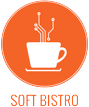
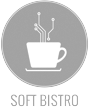
images fix

diff --git a/src/partials/desktop-content.html b/src/partials/desktop-content.html
@@ -162,42 +162,63 @@
                 <div class="friends__slide">
                     <div>
                         <a href="#">
-                            <img src="../images/friend-1.png" alt="">
+                            <span>
+                               <img src="../images/friend-1.png" alt="">
+                                <img src="../images/friend-1-color.png" alt="">
+                            </span>
+
                         </a>
                     </div>
                 </div>
                 <div class="friends__slide">
                     <div>
                         <a href="#">
-                            <img src="../images/friend-2.png" alt="">
+                            <span>
+                                <img src="../images/friend-2.png" alt="">
+                             <img src="../images/friend-2-color.png" alt="">
+                            </span>
+
                         </a>
                     </div>
                 </div>
                 <div class="friends__slide">
                     <div>
                         <a href="#">
-                            <img src="../images/friend-3.png" alt="">
+                            <span>
+                                <img src="../images/friend-3.png" alt="">
+                                <img src="../images/friend-3-color.png" alt="">
+                            </span>
+
                         </a>
                     </div>
                 </div>
                 <div class="friends__slide">
                     <div>
                         <a href="#">
-                            <img src="../images/friend-2.png" alt="">
+                            <span>
+                                <img src="../images/friend-2.png" alt="">
+                                <img src="../images/friend-2-color.png" alt="">
+                            </span>
                         </a>
                     </div>
                 </div>
                 <div class="friends__slide">
                     <div>
                         <a href="#">
-                            <img src="../images/friend-3.png" alt="">
+                            <span>
+                                <img src="../images/friend-3.png" alt="">
+                                <img src="../images/friend-3-color.png" alt="">
+                            </span>
                         </a>
                     </div>
                 </div>
                 <div class="friends__slide">
                     <div>
                         <a href="#">
-                            <img src="../images/friend-1.png" alt="">
+                            <span>
+                                <img src="../images/friend-1.png" alt="">
+                                <img src="../images/friend-1-color.png" alt="">
+                            </span>
                         </a>
                     </div>
                 </div>
@@ -218,7 +239,12 @@
                     <div class="contacts__location contacts__row">
                         <div class="contacts__content-row">
                             <div class="contacts__row-img">
-                                <img src="../images/point.png" alt="">
+                                <div class="contacts__row-img-container">
+                                    <svg  width="100%" height="100%">
+                                        <use xlink:href="#pointer"></use>
+                                    </svg>
+                                    <!--<img src="../images/point.png" alt="">-->
+                                </div>
                             </div>
                             <div>
                                 <p>м. Хмельницький</p>
@@ -229,7 +255,11 @@
                     <div class="contacts__phone contacts__row">
                         <a href="tel: +380674001182" class="contacts__content-row">
                             <div class="contacts__row-img">
-                                <img src="../images/tube.png" alt="">
+                                <div class="contacts__row-img-container">
+                                    <svg  width="100%" height="100%">
+                                        <use xlink:href="#phone"></use>
+                                    </svg>
+                                </div>
                             </div>
                             <span>+38 </span>
                             <span>067 400 11 82</span>
@@ -238,7 +268,11 @@
                     <div class="contacts__mail contacts__row">
                         <a href="mailto:hello@avivi.academy" class="contacts__content-row">
                             <div class="contacts__row-img contacts__img-hover">
-                                <img src="../images/mail.png" alt="">
+                                <div class="contacts__row-img-container">
+                                    <svg  width="100%" height="100%">
+                                        <use xlink:href="#mail"></use>
+                                    </svg>
+                                </div>
                             </div>
                             <p>hello@avivi.academy</p>
                         </a>

diff --git a/src/sass/develop.scss b/src/sass/develop.scss
@@ -301,7 +301,7 @@ h2{font-size: 72px;}
         span {color: #00674d; font-size: 22px; font-weight: 700; margin-bottom: 4px;}
         p {font-size: 15px; line-height: 22px; letter-spacing: 0.7px;}
     }
-    &__col:hover ~ img{transform: scale(0.7);}
+    &__col:hover img{animation-name: image-animate; animation-duration: 2s; animation-iteration-count: infinite; animation-timing-function: linear;}
     &__img {height: 85px; margin-bottom: 71px;}
     &__img {
         height: 85px;
@@ -318,15 +318,29 @@ h2{font-size: 72px;}
     .slick-prev:hover {border-left: 3px solid #0d8265; border-bottom: 3px solid #0d8265;}
 }
 
+@keyframes image-animate {
+    0% {transform: scale(1);}
+    25% {transform: scale(0.9);}
+    50% {transform: scale(1);}
+    75% {transform: scale(0.9);}
+    100% {transform: scale(1);}
+}
+
 .friends {background-color: #f5f5f5; padding-top: 67px; padding-bottom: 79px;
     &__header { display: flex; justify-content: center; margin-bottom: 24px;
         h2 {color: #013021; text-align: center;}
     }
     &__slide {
         div {display: flex; justify-content: center;}
-        img {}
-        a {height: 130px; display: flex; align-items: center;filter: grayscale(100%); transition: all 0.2s;}
-        a:hover {filter: grayscale(0);}
+        img { transition: all 0.2s;}
+        a {height: 130px; display: flex; align-items: center;
+            span { position: relative;}
+            img:last-child {opacity: 0; position: absolute; left: 0; top: 0;}
+        }
+        a:hover {
+            img:first-child { opacity: 0;}
+            img:last-child { opacity: 1;}
+        }
     }
     .slick-next { min-width: 20px; min-height: 20px;  border-left: 3px solid grey; border-bottom: 3px solid grey; transform: rotateZ(-135deg); top: 43%; z-index: 10; right: -10;
         &:before {content: '';}
@@ -363,10 +377,17 @@ h2{font-size: 72px;}
     &__content-row  { display: flex; align-items: center;
         p {letter-spacing: 1px;}
         span:first-child {font-size: 19px; font-weight: 300; align-self: flex-end; padding-bottom: 12px;}
-
+        svg {fill: #0d8265; width: 60%; height: 60%;}
+        &:hover {
+            svg {fill: #ffffff; width: 50%; height: 50%;}
+            .contacts__row-img-container {background-color: #0d8265;  border-radius: 8px; border: 4px solid #dbece8;
+                //&:after {content: ''; display: block; position: absolute; width: 118%; height: 118%; background-color: rgba(0,50,35,0.15);top: -5px; left: -5px; border-radius: 8px;}
+            }
+        }
     }
 
-    &__row-img {width: 80px;}
+
+    &__row-img {width: 80px; display: flex; justify-content: center;}
     &__phone {
 
         a {text-decoration: none; color: #000000;
@@ -377,7 +398,7 @@ h2{font-size: 72px;}
     &__mail { position: relative;
         a{text-decoration: none;font-size: 18px; color: #0d8265; font-weight: 700;}
         a:hover {text-decoration: underline;}
-        a:hover:before {content: ''; width: 68px; height: 68px; background-color: rgba(0, 50, 35, 0.15); display: block; position: absolute; border-radius: 5px; top: -5px; left: -5px; }
+        //a:hover:before {content: ''; width: 68px; height: 68px; background-color: rgba(0, 50, 35, 0.15); display: block; position: absolute; border-radius: 5px; top: -5px; left: -5px; }
     }
 
     &__right {padding-left: 60px; background-image: url("../images/keys.png"); background-repeat: no-repeat; background-position: center; background-size: cover;}
@@ -388,13 +409,16 @@ h2{font-size: 72px;}
         }
     }
     .contacts__right-button { position: relative; width: 270px; height: 60px; top: 10px;
+        &:after {content: ''; width: 280px; height: 70px; background-color: rgba(25, 255, 255, 0.15); display: block; position: absolute; top:-5px; left: -5px; border-radius: 8px; opacity: 0;  transition: all 0.2s;}
         input {background-color: #fff424; text-transform: uppercase; border-radius: 5px; font-size: 18px; border: none; font-style: normal; font-weight: 400; color: #013021; width: 270px; height: 60px; position: relative; z-index: 1; margin: 0; letter-spacing: 1.1px;
 
         }
 
     }
     .contacts__right-button:hover {
-        &:after {content: ''; width: 280px; height: 70px; background-color: rgba(25, 255, 255, 0.15); display: block; position: absolute; top:-5px; left: -5px; border-radius: 8px;}
+        &:after {content: ''; width: 280px; height: 70px; background-color: rgba(25, 255, 255, 0.15); display: block; position: absolute; top:-5px; left: -5px; border-radius: 8px; opacity: 1;}
+    }
+    &__row-img-container {width: 58px; height: 58px; display: flex; justify-content: center; align-items: center;  transition: all 0.2s;
     }
 
 }
@@ -404,6 +428,7 @@ h2{font-size: 72px;}
     &__head {border-bottom: 1px solid #ffffff; font-size: 14px; font-weight: 700;}
     &__coll {width: 20%; padding-right: 10px;
         a {color: #ffffff; text-decoration: none; font-size: 14px; margin-top: 10px; display: inline-block;}
+        a:hover {color: #00ce9b; }
     }
     &__pod {padding-bottom: 40px;
     }

diff --git a/src/partials/footer.html b/src/partials/footer.html
@@ -119,7 +119,7 @@
 </footer>
 <!-- FOOTER -->
 <script>
-    var revision = 130917;    // версия спрайта (текущая дата)
+    var revision = 130799;    // версия спрайта (текущая дата)
 </script>
 <link rel="stylesheet" href="css/jquery.fancybox.min.css">
 <link rel="stylesheet" href="css/formstyler.css">
